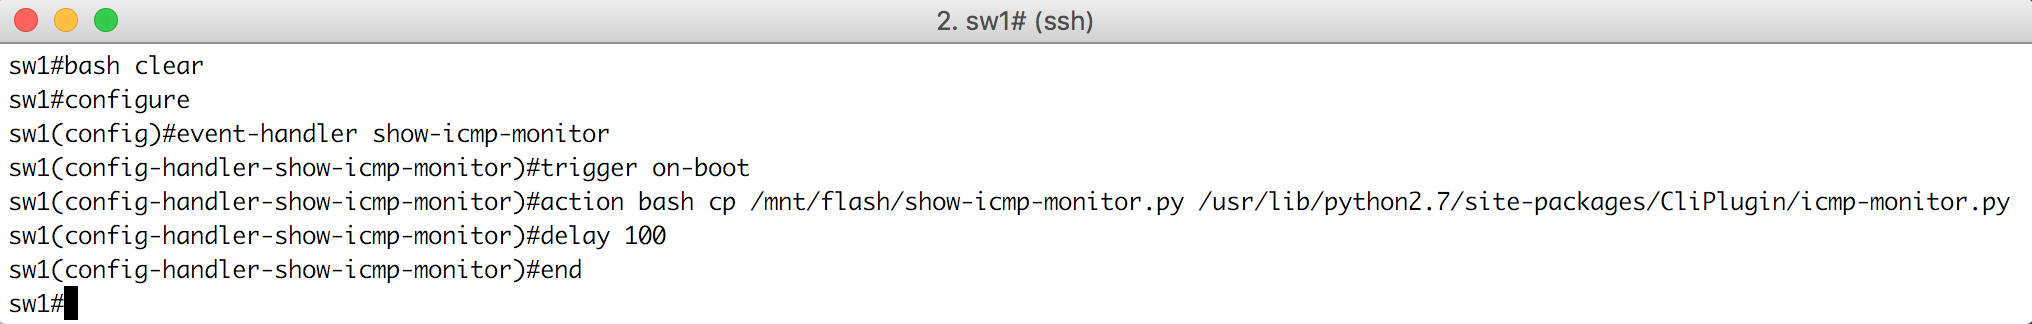
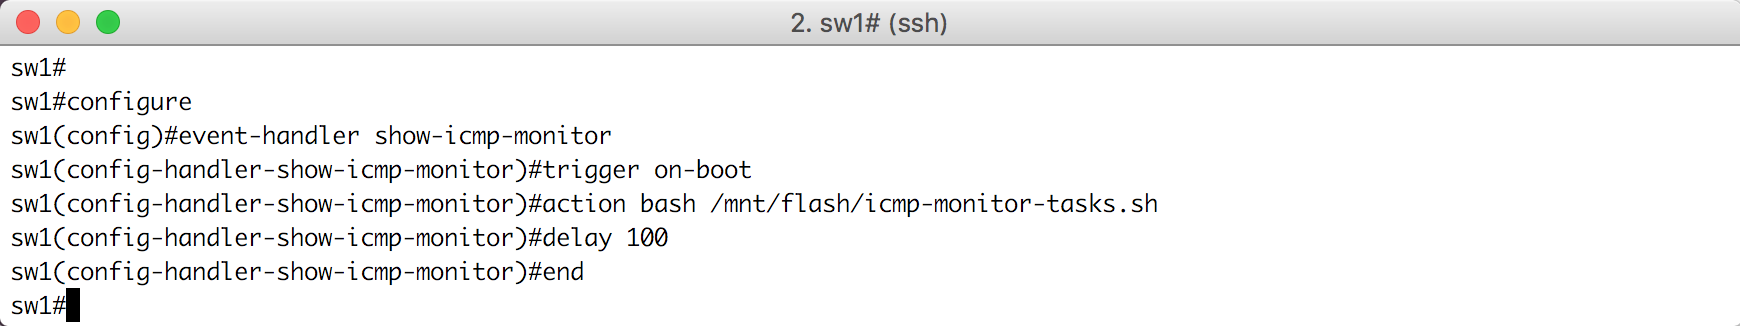
README updates

diff --git a/README.md b/README.md
@@ -7,6 +7,7 @@ Create a ICMP monitor and take action on your device given the status of the mon
 Copy files over to /mnt/flash on your Arista EOS device
  - monitor-ip.py
  - show-icmp-monitor.py
+ - icmp-monitor-tasks.sh
 
 #Step 2
 
@@ -28,13 +29,12 @@ Example of show command
 
 If device is already online follow these steps to kick off manually.
 
-1. copy .py files to /mnt/flash/
+1. copy .sh & .py files to /mnt/flash/
 2. ensure root password is configured
  - aaa root secret "INSERTYOURPASSWORD"
 3. from cli prompt, type in keyword bash
 4. su to root user, use root password
-5. copy files
- - cp /mnt/flash/show-icmp-monitor.py /usr/lib/python2.7/site-packages/CliPlugin/show-icmp-monitor.py
+5. run /mnt/flash/icmp-monitor-tasks.sh
 6. kick off monitor script manually and set to run in background
  - /mnt/flash/monitor-ip.py -r 0.0.0.0/0 -n 10.1.1.2 -m 10.1.1.2 -s et1 &
 7. logout
